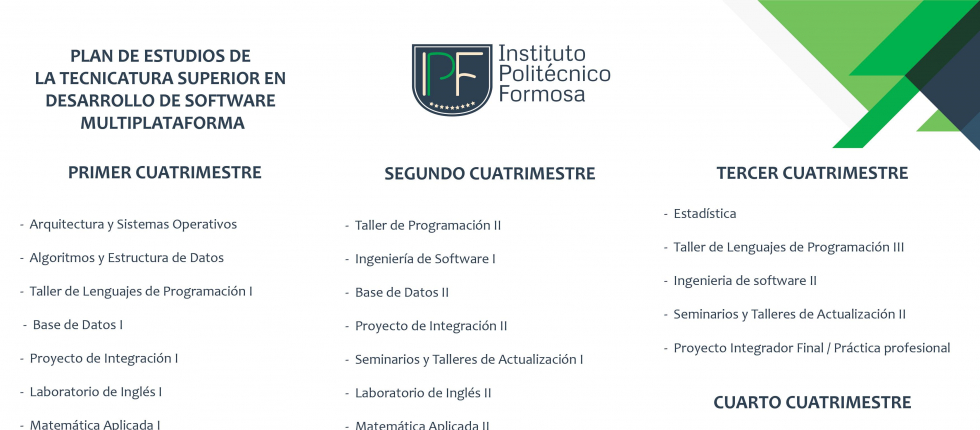
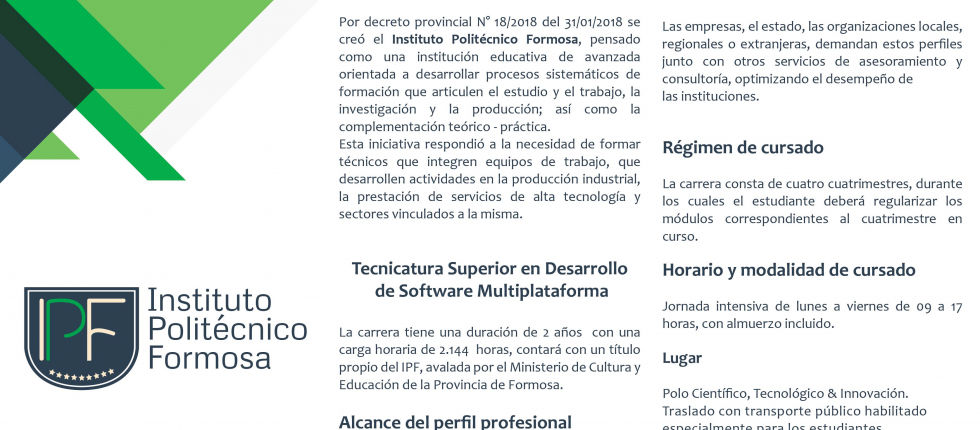
se agrega el carrusel de imagenes, la fuente que usara la pagina y una bienvenida con informacion del instituto

diff --git a/index.html b/index.html
@@ -12,10 +12,13 @@
       integrity="sha384-sRIl4kxILFvY47J16cr9ZwB07vP4J8+LH7qKQnuqkuIAvNWLzeN8tE5YBujZqJLB"
       crossorigin="anonymous"
     />
+    <style>
+      @import url("https://fonts.googleapis.com/css2?family=Oswald:wght@200..700&display=swap");
+    </style>
   </head>
-  <body>
+  <body class="d-flex flex-column min-vh-100">
     <nav
-      class="navbar navbar-light navbar-expand-lg"
+      class="navbar navbar-dark navbar-expand-lg"
       style="background-color: #2c394b"
     >
       <div class="container-fluid">
@@ -68,9 +71,89 @@
           </ul>
         </div>
       </div>
+
+      <div class="ms-auto">
+        <span navbar-text style="color: aliceblue">
+          info@ipf.edu.arRuta Nac. 81 km. 1190 | FormosaWhatsApp: 3704860530
+        </span>
+      </div>
     </nav>
     <header></header>
-    <main></main>
+    <main class="flex-grow-1">
+      <div
+        id="carouselExampleIndicators"
+        class="carousel slide"
+        style="max-width: 900px; margin: auto"
+      >
+        <div class="carousel-indicators">
+          <button
+            type="button"
+            data-bs-target="#carouselExampleIndicators"
+            data-bs-slide-to="0"
+            class="active"
+            aria-current="true"
+            aria-label="Slide 1"
+          ></button>
+          <button
+            type="button"
+            data-bs-target="#carouselExampleIndicators"
+            data-bs-slide-to="1"
+            aria-label="Slide 2"
+          ></button>
+          <button
+            type="button"
+            data-bs-target="#carouselExampleIndicators"
+            data-bs-slide-to="2"
+            aria-label="Slide 3"
+          ></button>
+        </div>
+        <div class="carousel-inner">
+          <div class="carousel-item active">
+            <img src="assets/img/car1.jpg" class="d-block w-100" alt="..." />
+          </div>
+          <div class="carousel-item">
+            <img src="assets/img/car2.jpg" class="d-block w-100" alt="..." />
+          </div>
+          <div class="carousel-item">
+            <img src="assets/img/car3.jpg" class="d-block w-100" alt="..." />
+          </div>
+        </div>
+        <button
+          class="carousel-control-prev"
+          type="button"
+          data-bs-target="#carouselExampleIndicators"
+          data-bs-slide="prev"
+        >
+          <span class="carousel-control-prev-icon" aria-hidden="true"></span>
+          <span class="visually-hidden">Previous</span>
+        </button>
+        <button
+          class="carousel-control-next"
+          type="button"
+          data-bs-target="#carouselExampleIndicators"
+          data-bs-slide="next"
+        >
+          <span class="carousel-control-next-icon" aria-hidden="true"></span>
+          <span class="visually-hidden">Next</span>
+        </button>
+      </div>
+      <div class="margin-grande">
+        <h1 class="fw-light">Bienvenido al Instituto Politecnico Formosa</h1>
+        <hr />
+        <p>
+          El Instituto Politécnico Formosa (IPF) es una institución pública de
+          educación superior técnica y tecnológica de la provincia de Formosa,
+          creada en 2018 como organismo descentralizado del Estado provincial.
+          Su finalidad es brindar formación profesional de calidad orientada a
+          las necesidades del desarrollo productivo, científico y tecnológico
+          local, regional y nacional.
+        </p>
+      </div>
+      <div class="margin-grande">
+        <h1 class="fw-light">Informacion destacada</h1>
+        <hr />
+      </div>
+    </main>
     <script
       src="https://cdn.jsdelivr.net/npm/bootstrap@5.3.8/dist/js/bootstrap.bundle.min.js"
       integrity="sha384-FKyoEForCGlyvwx9Hj09JcYn3nv7wiPVlz7YYwJrWVcXK/BmnVDxM+D2scQbITxI"

diff --git a/assets/css/index.css b/assets/css/index.css
@@ -1,0 +1,28 @@
+.img {
+  width: 500px;
+  height: auto;
+  padding: 50px;
+  margin: 50px;
+}
+.carousel-control-next-icon,
+.carousel-control-prev-icon {
+  background-color: rgba(0, 0, 0, 0.582);
+}
+.fw-light {
+  font-family: "Oswald", sans-serif;
+  font-optical-sizing: auto;
+  font-weight: 300;
+  font-style: normal;
+  font-size: 25px;
+}
+.margin-grande {
+  margin: 100px;
+}
+
+p {
+  font-family: "Oswald", sans-serif;
+  font-optical-sizing: auto;
+  font-weight: 300;
+  font-style: normal;
+  font-size: 18px;
+}
